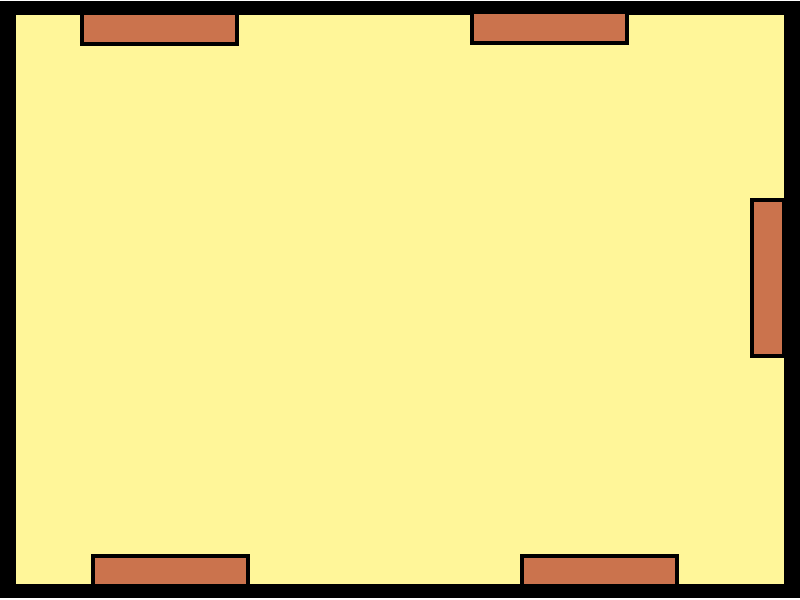
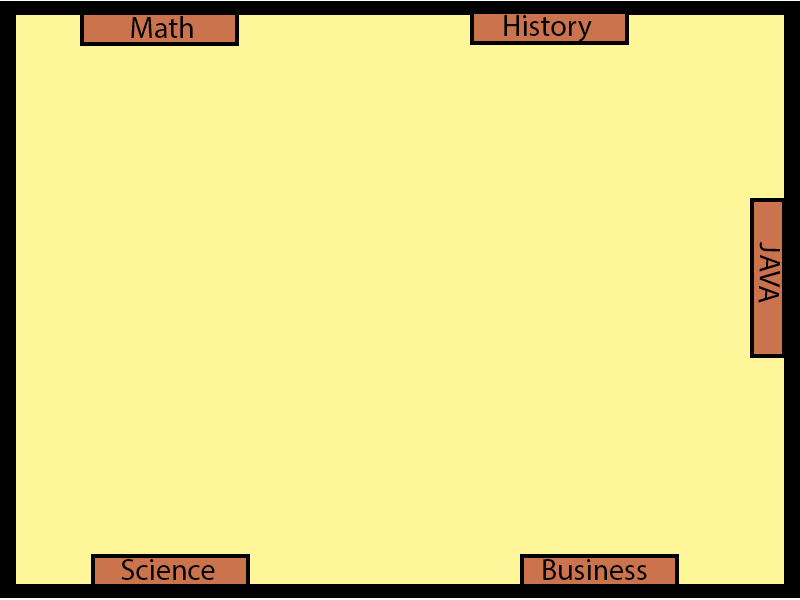
changed map + questions

diff --git a/src/DrawingSurface.java b/src/DrawingSurface.java
@@ -54,7 +54,7 @@ public class DrawingSurface extends PApplet {
 	 * 
 	 */
 	public void settings() {
-		size(800, 600);
+		size(800, 620);
 	}
 
 	/**
@@ -423,7 +423,7 @@ public class DrawingSurface extends PApplet {
 		possibleAnswers2.add("Sull Burg");
 		Problem p2 = new Problem(possibleAnswers2, 1, "Who first discovered America?");
 		problems2.add(p2);
-		
+	
 		ArrayList<String> possibleAnswers2b = new ArrayList<String>();
 		possibleAnswers2b.add("July 4, 1776");
 		possibleAnswers2b.add("Jul 4, 1777");
@@ -457,10 +457,7 @@ public class DrawingSurface extends PApplet {
 		possibleAnswers2e.add("2001");
 		Problem p2e = new Problem(possibleAnswers2e, 0, "When did ww1 start?");
 		problems2.add(p2e);
-		
-		
-		
-		
+	
 		classroom.add(new Classroom(problems2, classImg));
 
 		
@@ -469,27 +466,110 @@ public class DrawingSurface extends PApplet {
 		
 		
 		
-		
+	//Science 	
 		ArrayList<Problem> problems3 = new ArrayList<Problem>(); // C3
 		ArrayList<String> possibleAnswers3 = new ArrayList<String>();
-		possibleAnswers3.add("Ido");
-		possibleAnswers3.add("Itai");
-		possibleAnswers3.add("Ophir");
-		possibleAnswers3.add("None");
-		Problem p3 = new Problem(possibleAnswers3, 1, "Who is better at coding?");
+		possibleAnswers3.add("F");
+		possibleAnswers3.add("NaCl");
+		possibleAnswers3.add("Lu");
+		possibleAnswers3.add("Rf");
+		Problem p3 = new Problem(possibleAnswers3, 1, "Which is a molecule");
 		problems3.add(p3);
+		
+		
+		ArrayList<String> possibleAnswers3b = new ArrayList<String>();
+		possibleAnswers3b.add("None of the above");
+		possibleAnswers3b.add("3.1415 * 10^22");
+		possibleAnswers3b.add("6.401 * 10^23");
+		possibleAnswers3b.add("60.22 * 10^23");
+		Problem p3b = new Problem(possibleAnswers3b, 0, "What is Avogadro's number?");
+		problems3.add(p3b);
+//		
+//		ArrayList<String> possibleAnswers3c = new ArrayList<String>();
+//		possibleAnswers3c.add("None of the above");
+//		possibleAnswers3c.add("3.1415 * 10^22");
+//		possibleAnswers3c.add("6.401 * 10^23");
+//		possibleAnswers3c.add("60.22 * 10^23");
+//		Problem p3c = new Problem(possibleAnswers3c, 0, "What is Avogadro's number?");
+//		problems3.add(p3c);
+//				
+//		
+//		ArrayList<String> possibleAnswers3d = new ArrayList<String>();
+//		possibleAnswers3d.add("None of the above");
+//		possibleAnswers3d.add("3.1415 * 10^22");
+//		possibleAnswers3d.add("6.401 * 10^23");
+//		possibleAnswers3d.add("60.22 * 10^23");
+//		Problem p3d = new Problem(possibleAnswers3d, 0, "What is Avogadro's number?");
+//		problems3.add(p3d);
+//				
+//		
+//		ArrayList<String> possibleAnswers3e = new ArrayList<String>();
+//		possibleAnswers3e.add("None of the above");
+//		possibleAnswers3e.add("3.1415 * 10^22");
+//		possibleAnswers3e.add("6.401 * 10^23");
+//		possibleAnswers3e.add("60.22 * 10^23");
+//		Problem p3e = new Problem(possibleAnswers3e, 0, "What is Avogadro's number?");
+//		problems3.add(p3e);
+//				
+//		
+		
+				
 		classroom.add(new Classroom(problems3, classImg));
 
+		
+		
+	//Business
+	
+		
+		
 		ArrayList<Problem> problems4 = new ArrayList<Problem>(); // C4
 		ArrayList<String> possibleAnswers4 = new ArrayList<String>();
-		possibleAnswers4.add("Barack");
-		possibleAnswers4.add("Big Man");
-		possibleAnswers4.add("Omaha");
-		possibleAnswers4.add("Obama");
-		Problem p4 = new Problem(possibleAnswers4, 3, "What is obamas last name");
+		possibleAnswers4.add("My Right Plan");
+		possibleAnswers4.add("Materials Requirement Planning");
+		possibleAnswers4.add("Manufacturing Revenue Plus");
+		possibleAnswers4.add("Marginal Rate of Principal");
+		Problem p4 = new Problem(possibleAnswers4, 1, "What is MRP? ");
 		problems4.add(p4);
+		
+//		ArrayList<String> possibleAnswers4b = new ArrayList<String>();
+//		possibleAnswers4b.add("Barack");
+//		possibleAnswers4b.add("Big Man");
+//		possibleAnswers4b.add("Omaha");
+//		possibleAnswers4b.add("Obama");
+//		Problem p4b = new Problem(possibleAnswers4b, 3, "What is obamas last name");
+//		problems4.add(p4b);
+//		
+//		ArrayList<String> possibleAnswers4c = new ArrayList<String>();
+//		possibleAnswers4c.add("Barack");
+//		possibleAnswers4c.add("Big Man");
+//		possibleAnswers4c.add("Omaha");
+//		possibleAnswers4c.add("Obama");
+//		Problem p4c = new Problem(possibleAnswers4c, 3, "What is obamas last name");
+//		problems4.add(p4c);
+//		
+//		ArrayList<String> possibleAnswers4d = new ArrayList<String>();
+//		possibleAnswers4d.add("Barack");
+//		possibleAnswers4d.add("Big Man");
+//		possibleAnswers4d.add("Omaha");
+//		possibleAnswers4d.add("Obama");
+//		Problem p4d = new Problem(possibleAnswers4d, 3, "What is obamas last name");
+//		problems4.add(p4d);
+//		
+//		ArrayList<String> possibleAnswers4e = new ArrayList<String>();
+//		possibleAnswers4e.add("Barack");
+//		possibleAnswers4e.add("Big Man");
+//		possibleAnswers4e.add("Omaha");
+//		possibleAnswers4e.add("Obama");
+//		Problem p4e = new Problem(possibleAnswers4e, 3, "What is obamas last name");
+//		problems4.add(p4e);
+//		
+		
 		classroom.add(new Classroom(problems4, classImg));
 
+		
+		
+		
+	//Final Java
 		ArrayList<Problem> problems5 = new ArrayList<Problem>(); // C5
 		ArrayList<String> possibleAnswers5 = new ArrayList<String>();
 		possibleAnswers5.add("30 mod 3");

diff --git a/src/Classroom.java b/src/Classroom.java
@@ -31,6 +31,7 @@ public class Classroom {
 	public Classroom(ArrayList<Problem> problems, PImage image) {
 
 		randomProblem = problems.get((int) (Math.random() * problems.size()));
+		//random choice spot, keep as field
 		classImage = image;
 		finished = false;
 		width = 800;
@@ -51,6 +52,7 @@ public class Classroom {
 
 		marker.text(randomProblem.getQuestion(), (float) (width / 2), (float) (height / 8));
 		marker.fill(0, 0, 0);
+		//Randomize answer by using random fields initialzed in constructor
 		if (randomProblem.getPossibleAnswers().get(0) != null) {
 			marker.text(randomProblem.getPossibleAnswers().get(0), (float) 170, (float) 185);
 		}

diff --git a/src/Main.java b/src/Main.java
@@ -20,7 +20,7 @@ public class Main {
 		PSurfaceAWT.SmoothCanvas canvas = (PSurfaceAWT.SmoothCanvas) surf.getNative();
 		JFrame window = (JFrame) canvas.getFrame();
 
-		window.setSize(800, 600);
+		window.setSize(800, 620);
 		window.setMinimumSize(new Dimension(800, 600));
 		window.setDefaultCloseOperation(JFrame.EXIT_ON_CLOSE);
 		window.setResizable(false);
